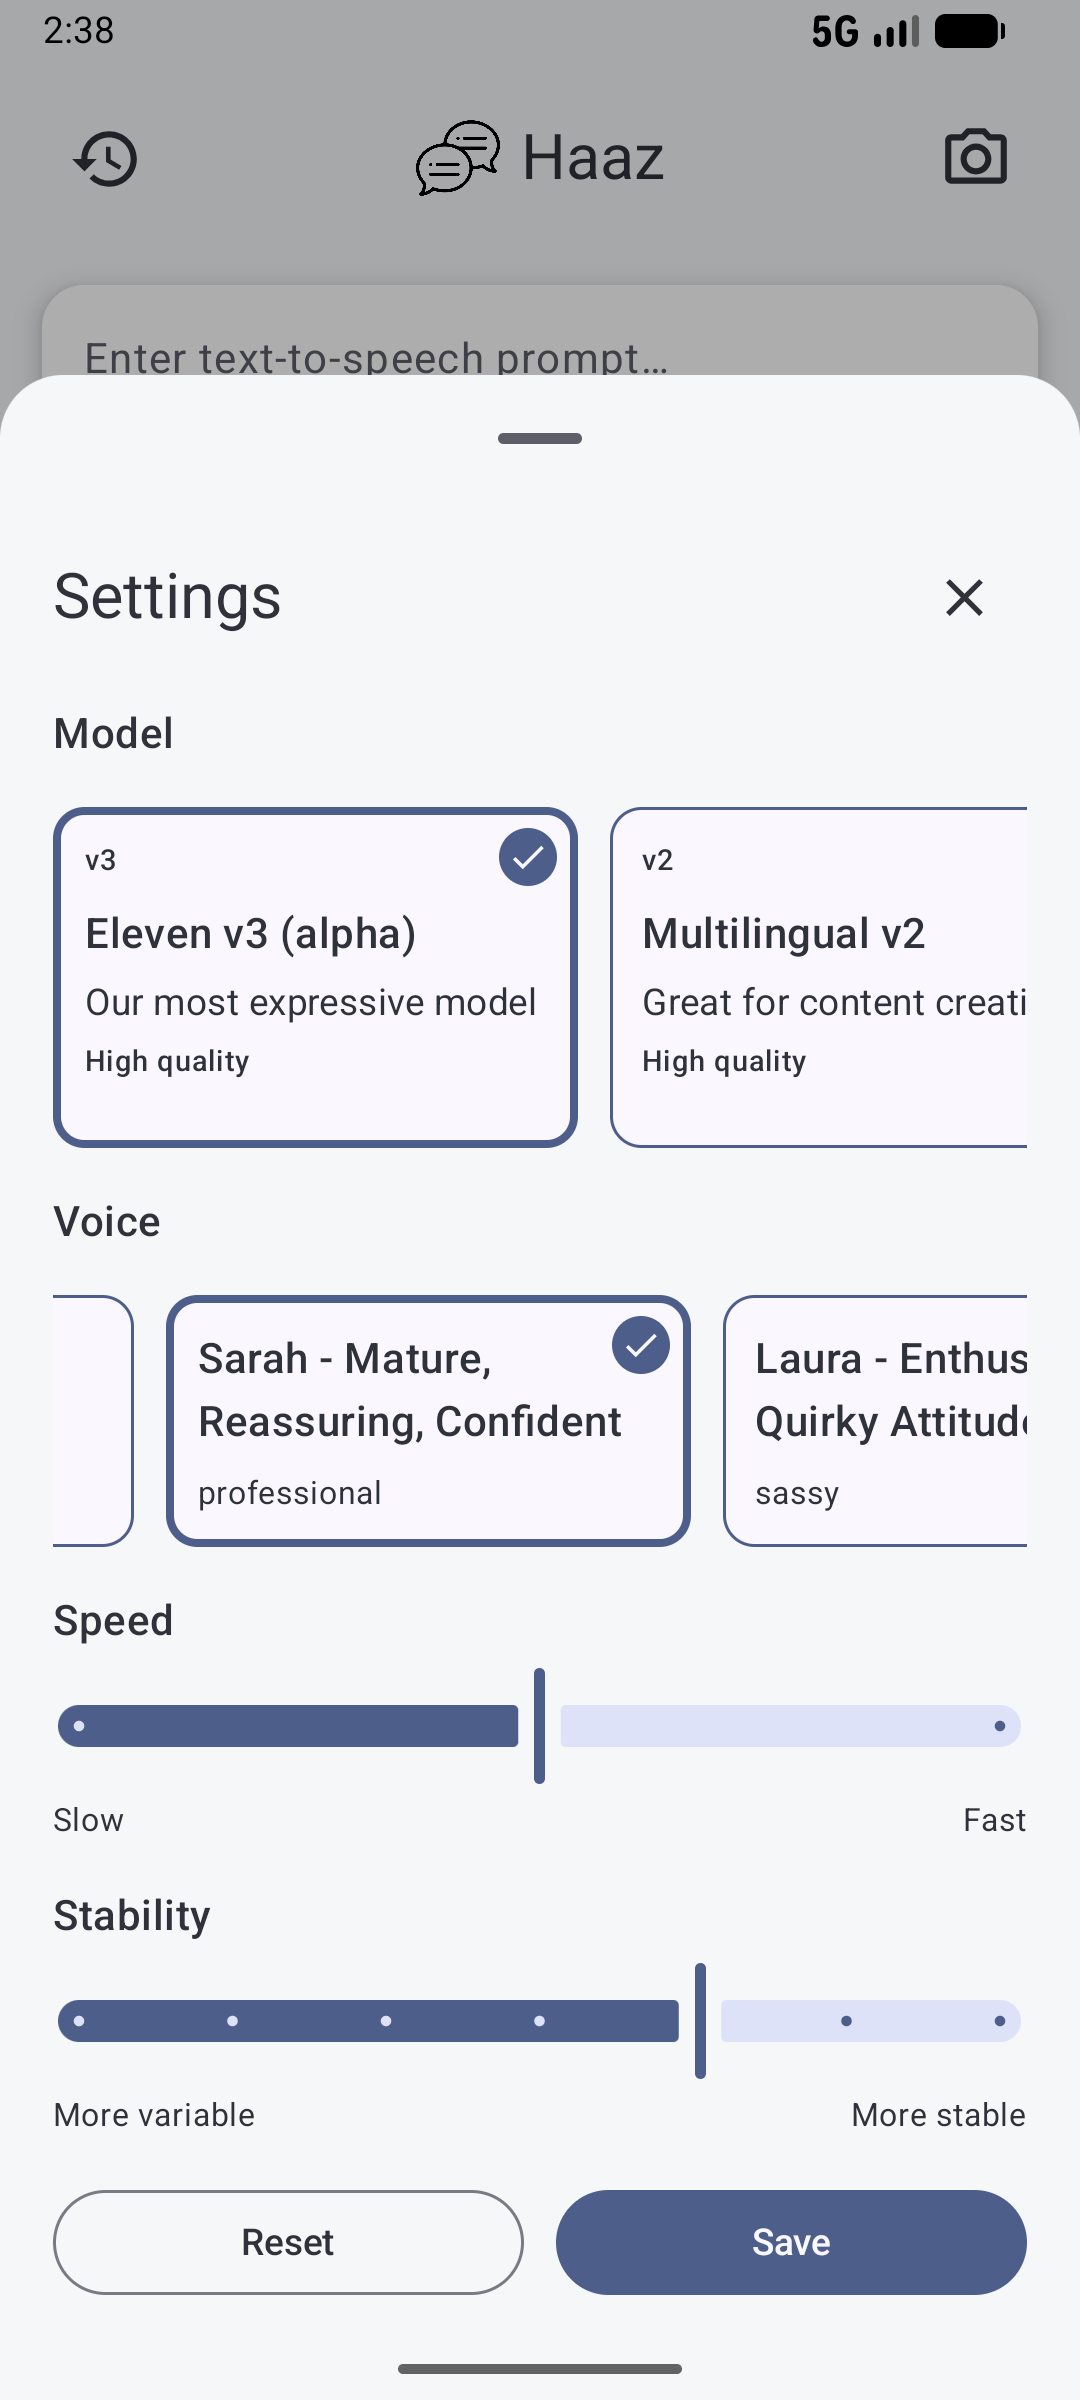
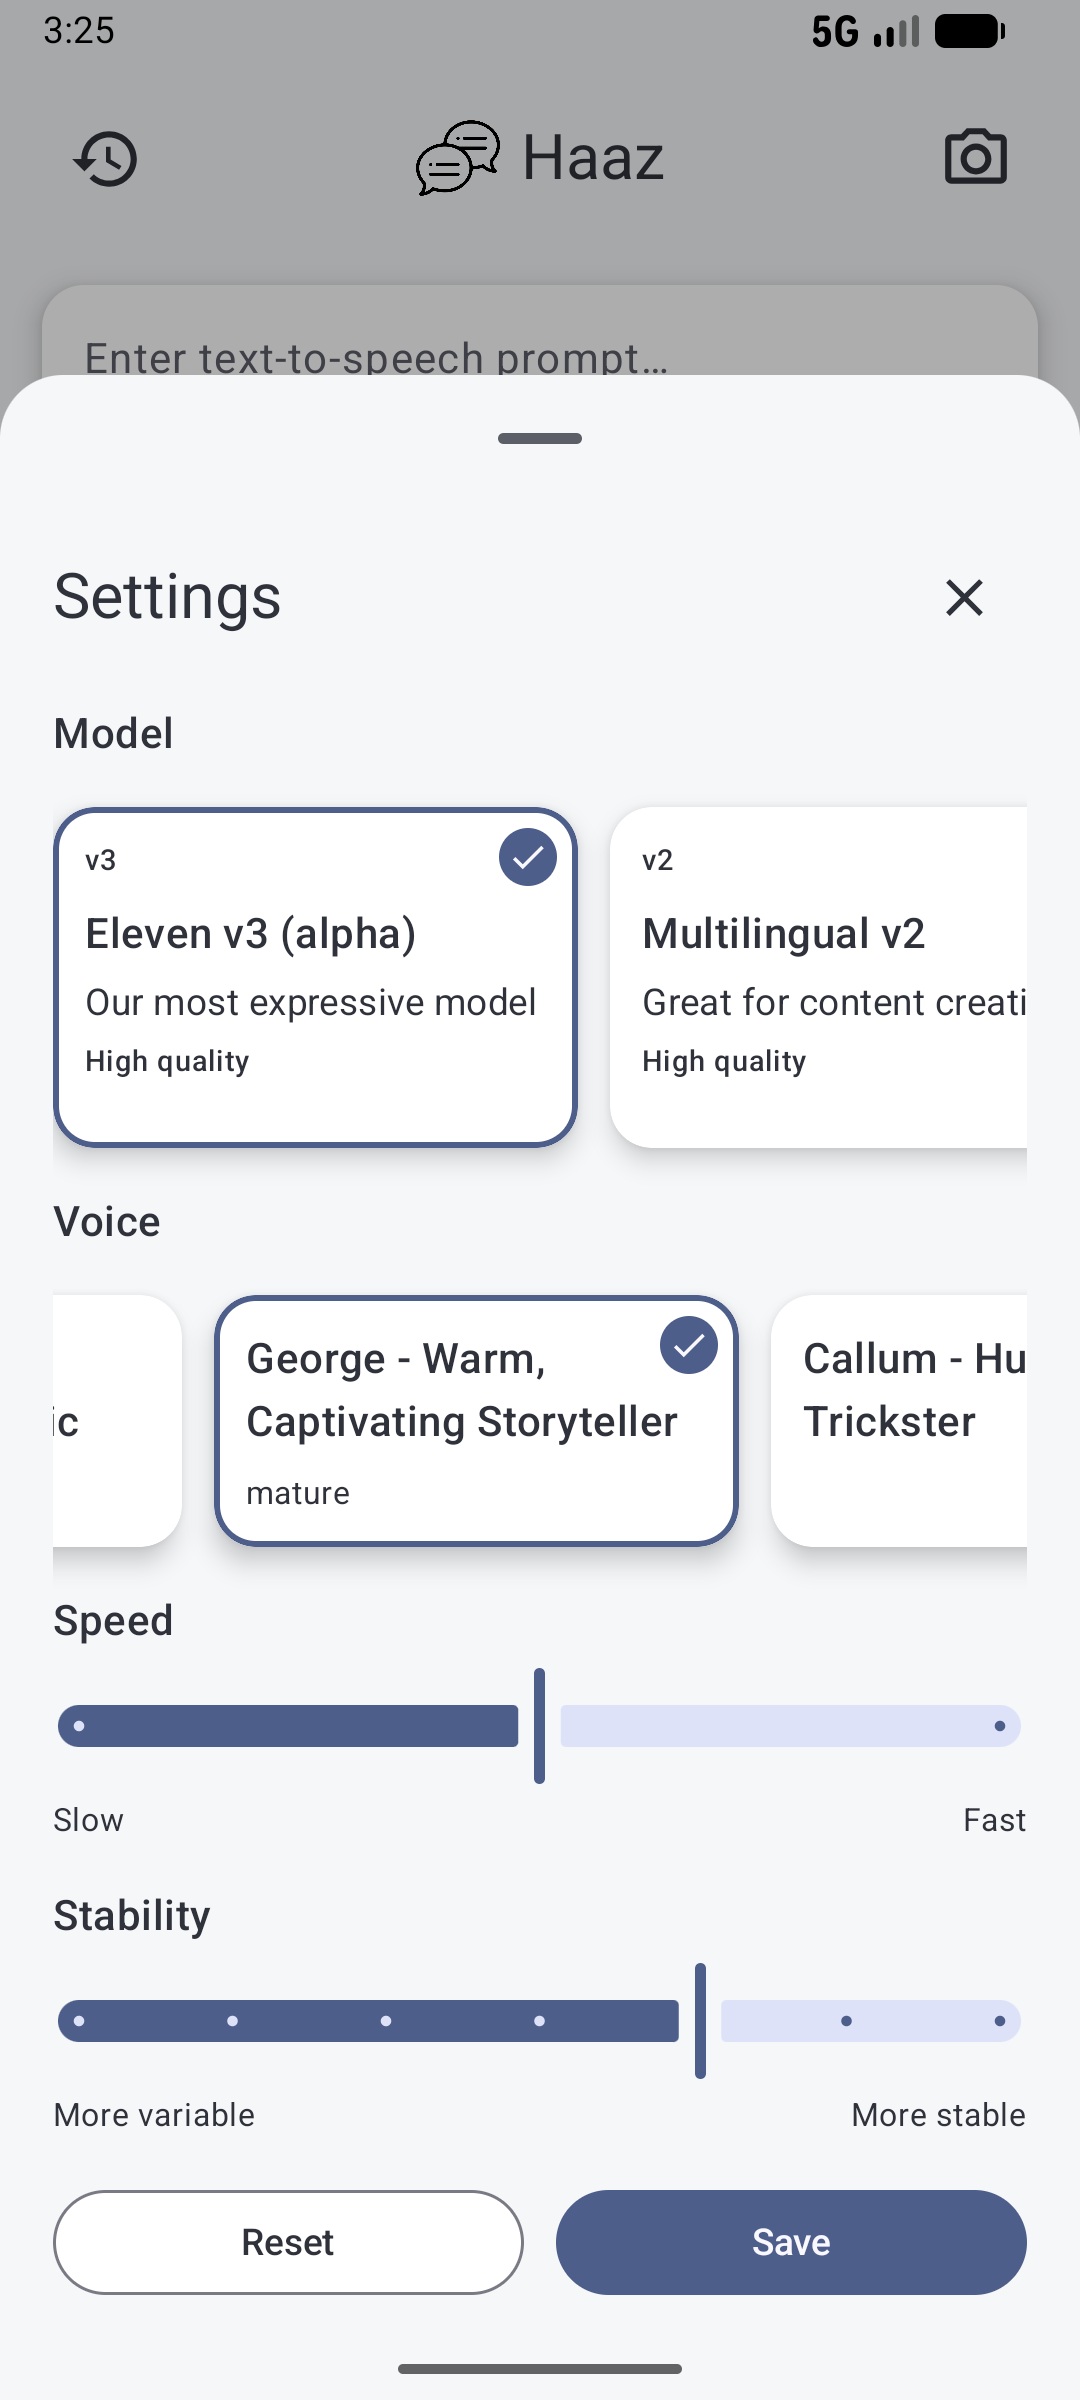
feat: Settings sheet design tweaks

Changed region(s): [[0.0611, 0.5312, 0.9472, 0.6562], [0.0611, 0.4688, 0.5194, 0.5], [0.5806, 0.4688, 0.9472, 0.5]]

diff --git a/app/src/main/java/com/haaz/ui/settings/SettingsSheetUI.kt b/app/src/main/java/com/haaz/ui/settings/SettingsSheetUI.kt
@@ -1,6 +1,6 @@
 package com.haaz.ui.settings
 
-import androidx.compose.foundation.BorderStroke
+import androidx.compose.foundation.border
 import androidx.compose.foundation.layout.Arrangement
 import androidx.compose.foundation.layout.Box
 import androidx.compose.foundation.layout.Column
@@ -26,7 +26,6 @@ import androidx.compose.material3.Icon
 import androidx.compose.material3.IconButton
 import androidx.compose.material3.MaterialTheme
 import androidx.compose.material3.OutlinedButton
-import androidx.compose.material3.OutlinedCard
 import androidx.compose.material3.Slider
 import androidx.compose.material3.SliderDefaults
 import androidx.compose.material3.Text
@@ -41,6 +40,8 @@ import androidx.compose.runtime.saveable.rememberSaveable
 import androidx.compose.runtime.setValue
 import androidx.compose.ui.Alignment
 import androidx.compose.ui.Modifier
+import androidx.compose.ui.draw.shadow
+import androidx.compose.ui.graphics.Color
 import androidx.compose.ui.text.style.TextOverflow
 import androidx.compose.ui.unit.dp
 import com.haaz.data.TtsSettings
@@ -64,6 +65,8 @@ fun SettingsSheetUI(
 
     val modelOptions = remember { TtsModel.entries.toList() }
     val speedTargets = remember { listOf(0.8f, 1.0f, 1.2f) }
+    val cardShape = RoundedCornerShape(16.dp)
+    val cardColor = Color.White
 
     Column(
         modifier = Modifier
@@ -87,13 +90,15 @@ fun SettingsSheetUI(
         LazyRow(horizontalArrangement = Arrangement.spacedBy(12.dp)) {
             items(modelOptions) { option ->
                 val selected = option == draft.model
-                OutlinedCard(
-                    modifier = Modifier.size(width = 200.dp, height = 130.dp),
-                        onClick = { draft = draft.copy(model = option) },
-                        border = if (selected) BorderStroke(3.dp, MaterialTheme.colorScheme.primary) else BorderStroke(
-                            1.dp,
-                        MaterialTheme.colorScheme.primary
-                    )
+                val borderColor = if (selected) MaterialTheme.colorScheme.primary else Color.Transparent
+                Surface(
+                    modifier = Modifier
+                        .size(width = 200.dp, height = 130.dp)
+                        .shadow(elevation = 6.dp, shape = cardShape, clip = false)
+                        .border(width = if (selected) 2.dp else 0.dp, color = borderColor, shape = cardShape),
+                    onClick = { draft = draft.copy(model = option) },
+                    color = cardColor,
+                    shape = cardShape
                 ) {
                     Box(modifier = Modifier.fillMaxSize()) {
                         Column(
@@ -153,13 +158,15 @@ fun SettingsSheetUI(
                 LazyRow(horizontalArrangement = Arrangement.spacedBy(12.dp)) {
                     items(voices) { voice ->
                         val selected = voice.id == draft.voiceId
-                        OutlinedCard(
-                            modifier = Modifier.size(width = 200.dp, height = 96.dp),
+                        val borderColor = if (selected) MaterialTheme.colorScheme.primary else Color.Transparent
+                        Surface(
+                            modifier = Modifier
+                                .size(width = 200.dp, height = 96.dp)
+                                .shadow(elevation = 6.dp, shape = cardShape, clip = false)
+                                .border(width = if (selected) 2.dp else 0.dp, color = borderColor, shape = cardShape),
                             onClick = { draft = draft.copy(voiceId = voice.id) },
-                            border = if (selected) BorderStroke(3.dp, MaterialTheme.colorScheme.primary) else BorderStroke(
-                                1.dp,
-                                MaterialTheme.colorScheme.primary
-                            )
+                            color = cardColor,
+                            shape = cardShape
                         ) {
                             Box(modifier = Modifier.fillMaxSize()) {
                                 Column(
@@ -224,7 +231,10 @@ fun SettingsSheetUI(
                     onReset()
                     draft = TtsSettings()
                 },
-                colors = ButtonDefaults.outlinedButtonColors(contentColor = MaterialTheme.colorScheme.onSurface)
+                colors = ButtonDefaults.outlinedButtonColors(
+                    containerColor = Color.White,
+                    contentColor = MaterialTheme.colorScheme.onSurface
+                )
             ) {
                 Text("Reset")
             }
